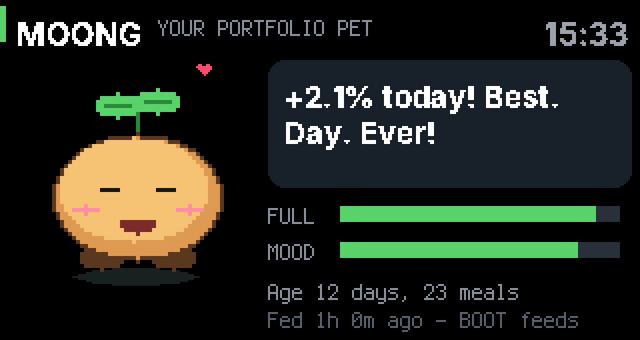
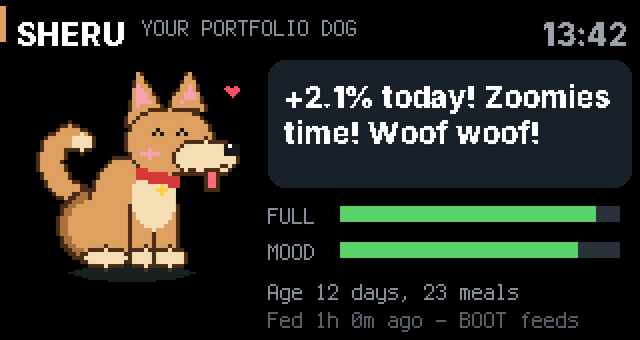
Pet: Sheru the Indian indie dog
- Pixel-art desi dog (fawn coat, pointy ears, curled tail, cream chest,
  red collar): tail wags faster on better days, tongue out when up, ears
  back and tail tucked with a tear when down, steel bowl when hungry,
  roti when fed, sleeps curled up at night
- Default name Sheru (PET_NAME / Settings page to change)
- Fix: the pet's speech formatted every mood at once, which crashed every
  second when logged out of Kite and could trigger the restart guard

Claude-Session: https://claude.ai/code/session_01Sfdt7SSnBsuuKXSBpK9YVa

diff --git a/t-display-dashboard/code.py b/t-display-dashboard/code.py
@@ -26,7 +26,7 @@
 #   STAT_PLAYERS="253802:Virat Kohli,625383:Jasprit Bumrah:bowl"  (Cricinfo id:name[:bowl])
 #   STAT_CLASS="11"       (11 all internationals, 1 Tests, 2 ODIs, 3 T20Is)
 #   TRIVIA_SECONDS="30"   TRIVIA_SOURCE="india" (or "world" = Open Trivia DB, "mix")
-#   PET_NAME="Moong"      PING_HOST="1.1.1.1"
+#   PET_NAME="Sheru"      PING_HOST="1.1.1.1"
 #   WATCHDOG="off"        (turn off the hang watchdog, e.g. while debugging over the REPL)
 #   NIGHT_HOURS="23-7"    (dark, dim clock only at night; "" turns night mode off)
 #   DAY_BRIGHTNESS="0.6"  NIGHT_BRIGHTNESS="0.05"
@@ -2098,15 +2098,37 @@ EXTRA["trivia"] = trivia_screen
 
 
 # ------------------------------------------------------------- virtual pet
-# A little sprout creature. Its leaf and face follow today's portfolio move, it gets
-# hungry if nobody presses BOOT (feed) for a while, and it sleeps at night.
+# Sheru, an Indian indie dog. His tail, ears and face follow today's portfolio move,
+# he gets hungry if nobody presses BOOT (feed) for a while, and he sleeps curled up at night.
 # Kept in NVM: birthday, last meal and number of meals.
-PET_NAME = (cfg("PET_NAME") or "Moong")[:10]
+PET_NAME = (cfg("PET_NAME") or "Sheru")[:10]
 PET_NVM = 64          # nvm[64] "P", [65:69] born, [69:73] last fed, [73:75] meals
-PCOL = (0, 0xF6C177, 0xD99A55, 0x5A3A22, 0x1B1B1B, 0xFFFFFF, 0xFF8FA3, 0x7A2E2E,
-        0x5BD16B, 0x2E8B3E, 0xA8834A, 0x6EC6FF, 0xE0A030, 0xFF4D6D)
-P_BODY, P_SHADE, P_LINE, P_EYE, P_SHINE, P_CHEEK, P_MOUTH, P_LEAF, P_LEAF2, P_WILT, \
-    P_TEAR, P_FOOD, P_HEART = range(1, 14)
+PCOL = (0, 0xD9A066, 0xA8713E, 0xF4DDB3, 0x4A2E1A, 0x1B1B1B, 0xFFFFFF, 0xF2A0A8, 0xFF6F7F,
+        0xD23A3A, 0xFFD24A, 0x6EC6FF, 0xB8C0C8, 0x6A737C, 0xC98A3A)
+D_FUR, D_SHADE, D_CREAM, D_LINE, D_EYE, D_SHINE, D_PINK, D_TONGUE, D_COLLAR, D_TAG, \
+    D_TEAR, D_BOWL, D_BOWL2, D_FOOD = range(1, 15)
+
+
+def _tri(bmp, p1, p2, p3, v):
+    """Filled triangle (scanline)."""
+    pts = sorted((p1, p2, p3), key=lambda p: p[1])
+    (x1, y1), (x2, y2), (x3, y3) = pts
+    for y in range(max(0, y1), min(bmp.height, y3 + 1)):
+        xs = []
+        for (ax, ay), (bx, by) in (((x1, y1), (x3, y3)), ((x1, y1), (x2, y2)), ((x2, y2), (x3, y3))):
+            if ay != by and min(ay, by) <= y <= max(ay, by):
+                xs.append(ax + (y - ay) * (bx - ax) / (by - ay))
+        if xs:
+            l, r = int(min(xs) + 0.5), int(max(xs) + 0.5)
+            bitmaptools.fill_region(bmp, max(0, l), y, min(bmp.width, r + 1), y + 1, v)
+
+
+def _rope(bmp, pts, r, v):
+    """A thick curve through points (the tail)."""
+    for (ax, ay), (bx, by) in zip(pts, pts[1:]):
+        n = max(abs(bx - ax), abs(by - ay), 1)
+        for i in range(n + 1):
+            _circle(bmp, int(ax + (bx - ax) * i / n + 0.5), int(ay + (by - ay) * i / n + 0.5), r, v)
 
 
 def _ellipse(bmp, cx, cy, rx, ry, v):
@@ -2117,16 +2139,16 @@ def _ellipse(bmp, cx, cy, rx, ry, v):
 
 
 class PetScreen(Screen):
-    W, H = 56, 50
+    W, H = 60, 50
 
     def __init__(self):
         global root
         Screen.__init__(self)
         root = self.grp
-        self.sub, self.clock = _head(PET_NAME.upper(), 0x5BD16B, "YOUR PORTFOLIO PET")
+        self.sub, self.clock = _head(PET_NAME.upper(), 0xD9A066, "YOUR PORTFOLIO DOG")
         sh = displayio.Palette(1)
         sh[0] = 0x1C2026
-        root.append(vectorio.Polygon(pixel_shader=sh, x=68, y=138, points=[
+        root.append(vectorio.Polygon(pixel_shader=sh, x=66, y=136, points=[
             (int(32 * math.cos(a * math.pi / 8)), int(5 * math.sin(a * math.pi / 8))) for a in range(16)]))
         self.bmp = displayio.Bitmap(self.W, self.H, len(PCOL))
         pp = displayio.Palette(len(PCOL))
@@ -2134,7 +2156,7 @@ class PetScreen(Screen):
             pp[i] = c
         pp.make_transparent(0)
         self.pal = pp
-        self.sprite = displayio.Group(scale=2, x=12, y=36)
+        self.sprite = displayio.Group(scale=2, x=8, y=36)
         self.sprite.append(displayio.TileGrid(self.bmp, pixel_shader=pp))
         root.append(self.sprite)
         hp = displayio.Palette(1)
@@ -2148,7 +2170,7 @@ class PetScreen(Screen):
         self.tear = vectorio.Circle(pixel_shader=tp, radius=3, x=0, y=0)
         self.tear.hidden = True
         root.append(self.tear)
-        self.zzz = text(F_TITLE, "", 112, 40, 0xB0C4FF)
+        self.zzz = text(F_TITLE, "", 100, 46, 0xB0C4FF)
         root.append(RoundRect(134, 30, 182, 64, 8, fill=0x1C2128))
         self.say = [text(F_MED, "", 142, 36 + i * 18, WHITE) for i in range(3)]
         text(F_SMALL, "FULL", 134, 102, 0x8A9099)
@@ -2230,84 +2252,126 @@ class PetScreen(Screen):
     def words(self, mood, now):
         pct = port_day_pct
         if now < self.thanks_until and mood != "eat":
-            return "Thank you! That was yummy."
+            return "Woof! Thank you, that roti was yummy."
         if not self.born:
-            return "Hi! I'm %s. Press BOOT to give me my first meal!" % PET_NAME
+            return "Woof! I'm %s. Press BOOT to give me my first roti!" % PET_NAME
         closed = not market_open()
-        return {
-            "sleep": "Zzz... see you in the morning.",
-            "eat": "Nom nom nom!",
-            "hungry": ("I haven't eaten in a whole day..." if self.hours_hungry() > 24
-                       else "I'm hungry! Press BOOT to feed me."),
-            "meh": "Log in to Kite so I know how we're doing!",
-            "ecstatic": "%+.1f%% today! Best. Day. Ever!" % pct,
-            "happy": ("Market's shut. We ended %+.1f%%. Nice!" % pct) if closed
-            else "We're up %+.1f%% today. Wheee!" % pct,
-            "sad": ("Market's shut. We ended %+.1f%%." % pct) if closed
-            else "Down %+.1f%%... hug me?" % pct,
-            "worried": "Ouch, %+.1f%% today. Hold steady!" % pct,
-        }[mood]
+        if mood == "sleep":
+            return "Zzz... (dreaming of biscuits)"
+        if mood == "eat":
+            return "Nom nom nom!"
+        if mood == "hungry":
+            return ("I haven't eaten all day... *whimper*" if self.hours_hungry() > 24
+                    else "My bowl is empty! Press BOOT to feed me.")
+        if mood == "meh" or pct is None:
+            return "Log in to Kite so I know whether to wag!"
+        if mood == "ecstatic":
+            return "%+.1f%% today! Zoomies time! Woof woof!" % pct
+        if mood == "happy":
+            return ("Market's shut. We ended %+.1f%%. Good day!" % pct) if closed \
+                else "We're up %+.1f%% today. *wags*" % pct
+        if mood == "sad":
+            return ("Market's shut. We ended %+.1f%%." % pct) if closed \
+                else "Down %+.1f%%... can I have a cuddle?" % pct
+        return "Ouch, %+.1f%% today. I'll guard the portfolio!" % pct
 
-    # -- drawing
-    def draw(self, mood, blink, mouth_open):
+    # -- drawing: a sitting desi dog, facing right, or curled up asleep
+    def draw(self, mood, blink, mouth_open, wag):
         b = self.bmp
         b.fill(0)
-        cx, cy = 28, 31
-        wilt = mood in ("sad", "worried", "hungry")
-        # sprout
-        leaf, leaf2 = (P_WILT, P_WILT) if wilt else (P_LEAF, P_LEAF2)
-        bitmaptools.draw_line(b, cx, cy - 15, cx, cy - 21, leaf2)
-        if wilt:
-            _ellipse(b, cx - 5, cy - 17, 4, 2, leaf)
-            _ellipse(b, cx + 5, cy - 17, 4, 2, leaf)
+
+        def blob(cx, cy, rx, ry, v):           # outlined oval
+            _ellipse(b, cx, cy, rx + 1, ry + 1, D_LINE)
+            _ellipse(b, cx, cy, rx, ry, v)
+
+        if mood == "sleep":
+            _rope(b, [(12, 40), (8, 44), (12, 47), (20, 47)], 3, D_LINE)
+            _rope(b, [(12, 40), (8, 44), (12, 47), (20, 47)], 2, D_FUR)
+            blob(28, 40, 19, 7, D_FUR)
+            _ellipse(b, 28, 43, 15, 3, D_SHADE)
+            blob(46, 38, 9, 7, D_FUR)
+            _tri(b, (40, 33), (35, 30), (44, 31), D_LINE)
+            _tri(b, (40, 33), (37, 31), (43, 32), D_SHADE)
+            blob(53, 41, 4, 3, D_CREAM)
+            b[56, 39] = b[57, 39] = D_EYE
+            bitmaptools.draw_line(b, 44, 37, 48, 37, D_LINE)          # closed eye
+            blob(50, 46, 5, 2, D_CREAM)                               # paws under the chin
+            return
+        down = mood in ("sad", "worried")
+        # tail: curled over the back and wagging, or tucked low when sad
+        if down:
+            tail = [(16, 38), (11, 42), (9, 46), (13, 48), (18, 48)]
+        elif wag:
+            tail = [(16, 31), (11, 28), (8, 23), (9, 18), (13, 15), (16, 17)]
         else:
-            _ellipse(b, cx - 5, cy - 23, 5, 3, leaf)
-            _ellipse(b, cx + 5, cy - 24, 5, 3, leaf)
-            bitmaptools.draw_line(b, cx - 8, cy - 23, cx - 2, cy - 23, leaf2)
-            bitmaptools.draw_line(b, cx + 2, cy - 24, cx + 8, cy - 24, leaf2)
-        # feet, body, shading
-        _ellipse(b, cx - 9, cy + 15, 5, 3, P_LINE)
-        _ellipse(b, cx + 9, cy + 15, 5, 3, P_LINE)
-        _ellipse(b, cx, cy, 21, 16, P_LINE)
-        _ellipse(b, cx, cy, 20, 15, P_SHADE)
-        _ellipse(b, cx - 1, cy - 2, 18, 13, P_BODY)
+            tail = [(16, 31), (10, 30), (6, 26), (5, 21), (7, 17), (11, 16)]
+        _rope(b, tail, 3, D_LINE)
+        _rope(b, tail, 2, D_FUR)
+        _circle(b, tail[-1][0], tail[-1][1], 2, D_CREAM)
+        # haunch, body, legs, chest
+        blob(21, 38, 10, 9, D_SHADE)
+        blob(28, 33, 9, 12, D_FUR)
+        _ellipse(b, 21, 38, 8, 7, D_FUR)
+        for x in (29, 35):                                  # front legs and paws
+            bitmaptools.fill_region(b, x - 1, 33, x + 6, 46, D_LINE)
+            bitmaptools.fill_region(b, x, 33, x + 5, 45, D_FUR)
+            blob(x + 3, 46, 3, 2, D_CREAM)
+        blob(22, 46, 5, 2, D_CREAM)
+        _ellipse(b, 34, 31, 5, 8, D_CREAM)
+        # ears: pointy and up, or folded back
+        if down:
+            ears = (((29, 12), (21, 7), (32, 7)), ((37, 9), (31, 3), (42, 6)))
+        else:
+            ears = (((28, 12), (30, 0), (35, 8)), ((38, 8), (43, 0), (46, 9)))
+        for p1, p2, p3 in ears:
+            _tri(b, (p1[0] - 1, p1[1] + 1), (p2[0], p2[1] - 1), (p3[0] + 1, p3[1]), D_LINE)
+            _tri(b, p1, p2, p3, D_FUR)
+            if not down:
+                cx, cy = (p1[0] + p2[0] + p3[0]) // 3, (p1[1] + p2[1] + p3[1]) // 3
+                _tri(b, (cx - 1, cy + 2), (p2[0], p2[1] + 3), (cx + 2, cy + 1), D_PINK)
+        # head, muzzle, nose
+        blob(38, 17, 10, 8, D_FUR)
+        blob(47, 21, 7, 4, D_CREAM)                          # a proper long desi snout
+        bitmaptools.fill_region(b, 52, 18, 56, 21, D_EYE)
+        b[53, 18] = D_SHINE
         # eyes
-        for ex in (cx - 7, cx + 7):
-            ey = cy - 2
-            if mood == "sleep" or blink:
-                bitmaptools.draw_line(b, ex - 2, ey, ex + 2, ey, P_EYE)
+        for ex in (35, 41):
+            ey = 15
+            if blink:
+                bitmaptools.draw_line(b, ex - 1, ey, ex + 1, ey, D_EYE)
             elif mood in ("ecstatic", "happy", "eat"):
-                bitmaptools.draw_line(b, ex - 2, ey + 1, ex, ey - 1, P_EYE)
-                bitmaptools.draw_line(b, ex, ey - 1, ex + 2, ey + 1, P_EYE)
+                b[ex - 1, ey] = b[ex, ey - 1] = b[ex + 1, ey] = D_EYE      # happy ^ ^
             else:
-                _ellipse(b, ex, ey, 2, 3, P_EYE)
-                b[ex - 1, ey - 2] = P_SHINE
-                if mood in ("sad", "worried"):            # worried brows
-                    d = 1 if ex < cx else -1
-                    bitmaptools.draw_line(b, ex - 2, ey - 5 - d, ex + 2, ey - 5 + d, P_LINE)
-        # cheeks
-        if mood in ("ecstatic", "happy", "eat"):
-            _ellipse(b, cx - 13, cy + 3, 3, 1, P_CHEEK)
-            _ellipse(b, cx + 13, cy + 3, 3, 1, P_CHEEK)
-        # mouth
-        my = cy + 5
-        if mood == "eat" and mouth_open or mood == "worried":
-            _ellipse(b, cx, my + 1, 2, 2, P_MOUTH)
-        elif mood == "ecstatic":
-            _ellipse(b, cx, my + 1, 4, 3, P_MOUTH)
-            bitmaptools.fill_region(b, cx - 4, my - 2, cx + 5, my + 1, P_BODY)
-        elif mood in ("happy", "eat"):
-            for x, y in ((-3, 0), (-2, 1), (-1, 1), (0, 1), (1, 1), (2, 1), (3, 0)):
-                b[cx + x, my + y] = P_MOUTH
-        elif mood in ("sad",):
-            for x, y in ((-3, 1), (-2, 0), (-1, 0), (0, 0), (1, 0), (2, 0), (3, 1)):
-                b[cx + x, my + y] = P_MOUTH
-        elif mood == "hungry":
-            _ellipse(b, cx, my, 3, 1, P_MOUTH)
+                bitmaptools.fill_region(b, ex - 1, ey - 1, ex + 1, ey + 2, D_EYE)
+                b[ex - 1, ey - 1] = D_SHINE
+                if mood in ("worried", "sad", "hungry"):                 # puppy-dog brows
+                    d = 1 if ex < 38 else -1
+                    bitmaptools.draw_line(b, ex - 2, ey - 3 - d, ex + 1, ey - 3 + d, D_LINE)
+        # mouth and tongue
+        if mood == "eat" and mouth_open:
+            _ellipse(b, 49, 25, 3, 2, D_LINE)
+            _ellipse(b, 49, 25, 2, 1, D_TONGUE)
         else:
-            bitmaptools.draw_line(b, cx - 2, my, cx + 2, my, P_MOUTH)
-        if mood == "eat":                                    # the snack
-            _ellipse(b, cx + 9, my + 2, 2, 2, P_FOOD)
+            if mood in ("ecstatic", "happy"):
+                bitmaptools.fill_region(b, 47, 24, 51, 30, D_LINE)
+                bitmaptools.fill_region(b, 48, 24, 50, 29, D_TONGUE)
+            if down:
+                bitmaptools.draw_line(b, 45, 25, 50, 24, D_LINE)
+            else:
+                bitmaptools.draw_line(b, 43, 24, 46, 25, D_LINE)
+                bitmaptools.draw_line(b, 46, 25, 52, 23, D_LINE)
+        if mood in ("ecstatic", "happy", "eat"):
+            _ellipse(b, 33, 20, 2, 1, D_PINK)                            # blush
+        # red collar with a little tag: someone's adopted indie
+        for o in range(3):
+            bitmaptools.draw_line(b, 30, 24 + o, 40, 26 + o, D_COLLAR)
+        _circle(b, 36, 29, 1, D_TAG)
+        # the steel bowl
+        if mood in ("eat", "hungry"):
+            _ellipse(b, 53, 46, 6, 3, D_BOWL2)
+            bitmaptools.fill_region(b, 47, 43, 60, 45, D_BOWL)
+            if mood == "eat":
+                _ellipse(b, 53, 43, 4, 1, D_FOOD)
 
     def bar(self, i, frac, colour):
         b, p = self.bars[i]
@@ -2330,31 +2394,33 @@ class PetScreen(Screen):
         if now > self.next_blink:
             self.blink_until = now + 0.15
             self.next_blink = now + 2.5 + random.random() * 3
-        blink = now < self.blink_until
+        blink = now < self.blink_until and mood != "sleep"
         mouth = mood == "eat" and int(now * 4) % 2 == 0
-        face = (mood, blink, mouth)
+        speed = {"ecstatic": 0.12, "happy": 0.25, "eat": 0.2, "meh": 0.6, "hungry": 0.9}.get(mood)
+        wag = bool(speed) and int(now / speed) % 2 == 0
+        face = (mood, blink, mouth, wag)
         if face != self.face:
             self.face = face
-            self.draw(mood, blink, mouth)
+            self.draw(mood, blink, mouth, wag)
         # body language
         phase = now % 3.0
         y = 36
-        if mood == "ecstatic" and phase < 0.3 or mood == "happy" and phase < 0.2:
-            y = 26                                           # a little hop
-        elif mood in ("meh", "sad", "worried", "hungry", "happy", "ecstatic"):
-            y = 36 + (2 if int(now * 2) % 2 else 0)          # breathing
-        x = 12 + (1 if mood == "hungry" and int(now * 8) % 16 == 0 else 0)
+        if mood == "ecstatic" and phase < 0.35:
+            y = 26                                           # a happy hop
+        elif mood not in ("sleep",):
+            y = 36 + (1 if int(now * 2) % 2 else 0)          # breathing
+        x = 8 + (1 if mood == "hungry" and int(now * 8) % 16 == 0 else 0)
         if (self.sprite.x, self.sprite.y) != (x, y):
             self.sprite.x, self.sprite.y = x, y
         # hearts, tears, z's
         self.heart.hidden = mood != "ecstatic" and now >= self.thanks_until
         if not self.heart.hidden:
             k = (now % 1.6) / 1.6
-            self.heart.x, self.heart.y = 98, int(52 - 30 * k)
+            self.heart.x, self.heart.y = 112, int(46 - 30 * k)
         self.tear.hidden = mood not in ("sad", "worried")
         if not self.tear.hidden:
             k = (now % 1.8) / 1.8
-            self.tear.x, self.tear.y = 50, int(y + 62 + 22 * k)
+            self.tear.x, self.tear.y = 73, int(y + 34 + 14 * k)
         if mood == "sleep":
             self.zzz.text = ("z", "z Z", "z Z z")[int(now) % 3]
         elif self.zzz.text:
@@ -2375,8 +2441,8 @@ class PetScreen(Screen):
                     age, "" if age == 1 else "s", self.meals, "" if self.meals == 1 else "s")
                 self.hint.text = "Fed %s ago - BOOT feeds" % _ago(time.time() - self.fed)
             else:
-                self.info.text = "Not born yet"
-                self.hint.text = "BOOT = first meal"
+                self.info.text = "Just adopted!"
+                self.hint.text = "BOOT = first roti"
 
 
 pet_screen = PetScreen()

diff --git a/t-display-dashboard/README.md b/t-display-dashboard/README.md
@@ -23,7 +23,7 @@ A Wi-Fi desk dashboard for the **LilyGO T-Display-S3** (ESP32-S3, 1.9" 320×170 
 | **Stat of the day** | A player's international numbers this year plus career line; a cricket fact when offline | ESPNcricinfo Statsguru |
 | **Trivia** | An India quiz question; the answer lights up after 30 s | `trivia_india.txt` on the board (241 questions, add your own) |
 | **Internet** | Ping graph, router ping, Wi-Fi signal, board speed test, router uptime, outage log | Ping, Cloudflare speed test, router UPnP |
-| **Pet** | Moong, a sprout creature whose mood follows today's P&L; feed it with BOOT | Kite + NVM |
+| **Pet** | Sheru, an Indian indie dog whose mood follows today's P&L; feed him with BOOT | Kite + NVM |
 | **Night clock** | Large dim analog clock, date, temperature (23:00–07:00 by default) | — |
 | **Night screensavers** | Matrix rain, fire or a starfield instead of the clock (`NIGHT_SCREEN`) | — |
 
@@ -71,7 +71,7 @@ The original grey look:
 - **Stat of the day:** one player per day from `STAT_PLAYERS` (Cricinfo player ids). Shows this year's runs or wickets, five key numbers and the career line, refreshed every 6 hours. If Statsguru can't be read it shows a cricket fact instead; `/stat/debug` on the board's web page shows what it got.
 - **Trivia:** 241 India questions in `trivia_india.txt` — history, geography, polity, science and ISRO, sports, culture, cinema, food, economy and Uttar Pradesh — shuffled so none repeats until all have been asked. Add your own as `CATEGORY|Question|Right answer|Wrong|Wrong|Wrong` lines. The bar counts down, then the right answer turns green for 8 seconds; the screen stays up for the whole question when auto-rotating. `TRIVIA_SOURCE = "world"` switches to Open Trivia DB (mostly US/UK questions) and `"mix"` alternates.
 - **Internet:** pings `PING_HOST` (1.1.1.1) every 5 s while showing (every minute otherwise) and the router, Wi-Fi signal strength, a 400 KB download speed test every 30 minutes (this measures the board's own speed, which is far below your line's), the router's uptime if it answers UPnP (many do; otherwise "n/a"), and the last outage.
-- **Pet:** Moong's leaf and face follow today's P&L (thrilled above +1.5%, worried below −1.5%), it gets hungry after 8 hours without food, and it sleeps at night. Its birthday, last meal and meal count survive restarts. Feed it with BOOT or at `/pet`.
+- **Pet:** Sheru, a desi indie dog with a red collar. His tail wags faster the better the day, his tongue comes out when we're up, and on a red day his ears go back and his tail tucks (thrilled above +1.5%, worried below −1.5%). He gets hungry after 8 hours without roti (his steel bowl appears), and sleeps curled up at night. His birthday, last meal and meal count survive restarts. Feed him with BOOT or at `/pet`.
 - **Screensavers:** set `NIGHT_SCREEN` to `matrix`, `fire`, `stars` or `cycle` (a different one each hour). They can also go in `SCREEN_ORDER`.
 
 ## Buttons
@@ -124,7 +124,7 @@ Most settings can be changed from your phone at `http://<board-ip>:8080/settings
 | `STAT_PLAYERS` | Kohli, Rohit, Bumrah, Gill | `id:Name` or `id:Name:bowl`, comma separated (the id is in the player's Cricinfo URL) |
 | `STAT_CLASS` | `11` | `11` all internationals, `1` Tests, `2` ODIs, `3` T20Is |
 | `TRIVIA_SECONDS` / `TRIVIA_SOURCE` | `30` / `india` | Time to think; `india` (the file), `world` (Open Trivia DB) or `mix` |
-| `PET_NAME` / `PING_HOST` | `Moong` / `1.1.1.1` | Pet's name; what the Internet screen pings |
+| `PET_NAME` / `PING_HOST` | `Sheru` / `1.1.1.1` | Pet's name; what the Internet screen pings |
 | `SCREEN_SECONDS` | `15` | Seconds per screen |
 | `AUTO_ROTATE` | on | `off` = change screens only with the KEY button |
 | `NEWS_SECONDS` / `NEWS_PER_VISIT` | `6` / `10` | Seconds per headline / headlines per visit |

diff --git a/README.md b/README.md
@@ -6,7 +6,7 @@ Hobby builds on the **LilyGO T-Display-S3** (ESP32-S3, 16 MB flash, 8 MB PSRAM, 
 
 | Project | Status | What it is |
 |---|---|---|
-| [**T-Display desk dashboard**](t-display-dashboard/) | Working | Rotating Wi-Fi dashboard in CircuitPython: weather with an analog clock, Zerodha P&L, SENSEX/NIFTY/NASDAQ/S&P 500, live cricket, top India news, a holdings heatmap, cricket stat of the day, trivia, internet health, a portfolio pet and night screensavers. Two looks: **aura** (a style per screen) and **classic** |
+| [**T-Display desk dashboard**](t-display-dashboard/) | Working | Rotating Wi-Fi dashboard in CircuitPython: weather with an analog clock, Zerodha P&L, SENSEX/NIFTY/NASDAQ/S&P 500, live cricket, top India news, a holdings heatmap, cricket stat of the day, trivia, internet health, a portfolio pet dog and night screensavers. Two looks: **aura** (a style per screen) and **classic** |
 | "Hey Jarvis" voice assistant | Planned | Wake word on the ESP32-S3 (INMP441 mic, MAX98357A amp), with speech-to-text → Claude → text-to-speech through a small relay server |
 | Analog P&L gauge | Planned | A servo needle on a printed dial showing today's portfolio P&L |
 | Cricket alerts | Planned | Sounds for wickets, fours and sixes through the I2S amp |
